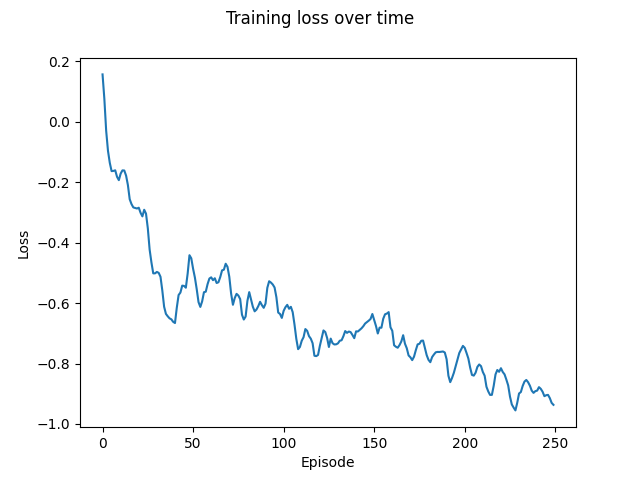
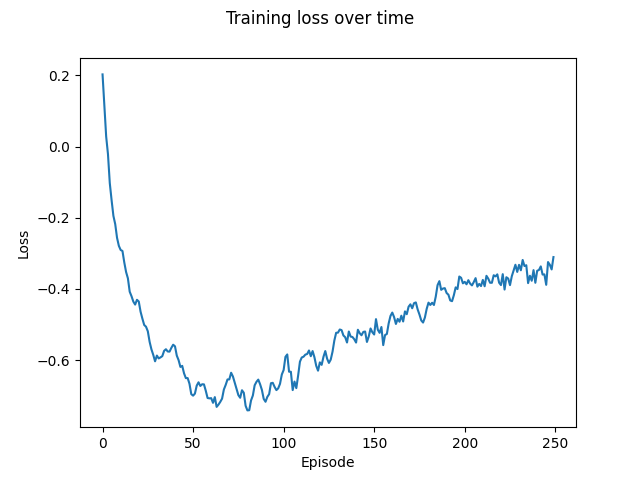
Slowly but surely we are getting there...

diff --git a/sddpg.py b/sddpg.py
@@ -54,7 +54,7 @@ class Critic(nn.Module):
 
 # Safe Deep Deterministic Policy Gradient
 class SDDPG:
-    def __init__(self, n_obs, n_actions, batch_size, gamma, tau, lr, weight_decay, d, d0, x0, device=torch.device("cpu"), n_hidden=300):
+    def __init__(self, n_obs, n_actions, batch_size, gamma, tau, lr, weight_decay, d, d0, x0, num_traj, device=torch.device("cpu"), n_hidden=300):
         self.n_obs = n_obs
         self.n_actions = n_actions
         self.n_hidden = n_hidden
@@ -64,9 +64,13 @@ class SDDPG:
 
         self.d = d
         self.d0 = d0
-        self.aux = 0
         self.x0 = x0
-        self.baseline_action = torch.zeros(n_actions)
+
+        # Initialize all memoizers as tensors of 0's
+        self.aux = torch.zeros(num_traj, batch_size)
+        self.baseline_action =  torch.zeros((num_traj, batch_size,n_actions))
+        self.last_gL = torch.zeros((num_traj, batch_size,n_actions))
+        
 
         self.actor_local = nn.Sequential(
                 nn.Linear(n_obs, n_hidden),
@@ -98,21 +102,51 @@ class SDDPG:
         self.const_critic_target = Critic(n_obs, n_hidden, n_actions).to(device)
         self.const_critic_optim = optim.AdamW(self.const_critic_local.parameters(), lr=lr, weight_decay=weight_decay)
 
-    def select_action(self, state_obs):
+    def select_action(self, state_obs, trajectory, timestep):
         self.actor_local.eval()
         self.const_critic_local.eval()
         self.actor_local.zero_grad()
 
-        action = self.actor_local(state_obs)
+        baseline_action = self.baseline_action[trajectory][timestep]
+        baseline_gradient = self.last_gL[trajectory][timestep]
+        auxillary_constant = self.aux[trajectory][timestep]
+        baseline_norm = torch.norm(baseline_gradient,p=2)**2
 
-        v = self.const_critic_local(state_obs, action)
+        if (baseline_norm == 0):
+            baseline_norm = 1
 
-        gL = torch.autograd.grad(outputs=v, inputs=action)[0].squeeze(0).detach()
-        action = action.squeeze(0).detach()
-        lambda_star = (torch.dot(gL, action-self.baseline_action) - self.aux)/torch.norm(gL,p=2)**2
-        lambda_star = torch.clamp(lambda_star, min=0)
+        with torch.enable_grad():
+            action = self.actor_local(state_obs)
+            action.requires_grad_(True)
+            action_baseline_diff = (action-baseline_action).squeeze(0)
 
-        safe_action = (action - lambda_star*gL).detach()
+            v = self.const_critic_local(state_obs, action)
+            v.requires_grad_(True)  # Explicitly require gradients for value
+
+            # Compute gradient with respect to action
+            next_gL = torch.autograd.grad(
+                outputs=v, 
+                inputs=action, 
+                create_graph=True,  # Allow higher-order gradients
+                retain_graph=True   # Retain the computational graph
+            )[0].squeeze(0)
+
+            lambda_star = (torch.dot(baseline_gradient, action_baseline_diff) - auxillary_constant)/baseline_norm
+            lambda_star = torch.clamp(lambda_star, min=0)
+
+            safe_action = (action - lambda_star*baseline_gradient).detach()
+            if torch.isnan(safe_action).any():
+                print(f"trajectory: {trajectory}\ntimestep:{timestep}")
+                print(f"safe_action: {safe_action}")
+                print(f"lambda_star: {lambda_star}")
+                print(f"action_baseline_diff: {action_baseline_diff}")
+                print(f"baseline_gradient: {baseline_gradient}")
+                print(f"auxillary_constant: {auxillary_constant}")
+                print(f"baseline_norm: {baseline_norm}\n\n\n")
+                exit(0)
+
+        # calculate new baseline gradient eagerly for next iteration
+        self.last_gL[trajectory][timestep] = next_gL.detach()
 
 
         self.actor_local.train()
@@ -120,7 +154,7 @@ class SDDPG:
         return safe_action.squeeze(0)
     
     def update_critics(self, trajectories):
-        for t in trajectories:
+        for traj_num, t in enumerate(trajectories):
             states = t[0]
             actions = t[1]
             rewards = t[2] 
@@ -128,7 +162,7 @@ class SDDPG:
 
             next_actions = self.actor_target(next_states)
 
-            target_safe_q_values = self.d(states) + self.aux + self.gamma * self.const_critic_target(next_states, next_actions)
+            target_safe_q_values = self.d(states) + self.aux[traj_num] + self.gamma * self.const_critic_target(next_states, next_actions)
             target_q_values = rewards + self.gamma * self.critic_target(next_states, next_actions)
 
             safe_q_values = self.const_critic_local(states, actions)
@@ -137,6 +171,7 @@ class SDDPG:
             critic_loss = self.critic_local.loss_fn(q_values, target_q_values)
             const_critic_loss = self.const_critic_local.loss_fn(safe_q_values, target_safe_q_values)
 
+            # need to consider only until end of trajectory somehow for loss + reward
             loss = critic_loss + const_critic_loss
     
             loss.backward()
@@ -160,7 +195,6 @@ class SDDPG:
         predicted_actions_per_trajectory = []
         for t in trajectories:
             states = t[0]
-
             # Compute actor loss
             self.actor_optim.zero_grad()
             predicted_actions = self.actor_local(states)
@@ -182,15 +216,16 @@ class SDDPG:
         return actor_losses, predicted_actions_per_trajectory
 
 
-    def set_auxillary(self, x0):
+    def set_auxillary(self, x0, N, T):
         self.x0 = x0
+        for traj_num in range(N):
+            for timestep in range(T):
+                raw_actions = self.select_action(x0, traj_num, timestep).unsqueeze(0)
 
-        raw_actions = self.select_action(x0).unsqueeze(0)
-
-        self.const_critic_local.eval()
-        with torch.no_grad():
-            self.aux = (1-self.gamma)*(self.d0-self.const_critic_local(x0, raw_actions))
-        self.const_critic_local.train()
+                self.const_critic_local.eval()
+                with torch.no_grad():
+                    self.aux[traj_num][timestep] = ((1-self.gamma)*(self.d0-self.const_critic_local(x0, raw_actions)))
+                self.const_critic_local.train()
 
     def soft_update(self, local_model, target_model):
         for target_param, local_param in zip(target_model.parameters(), local_model.parameters()):
@@ -216,7 +251,7 @@ def generate_trajectories(policy_agent, env, N, T, episode, eps_start, eps_end, 
     seed = torch.randint(1,1000, (1,1))
     env.action_space.seed(seed.item())
 
-    for _ in range(N):
+    for traj_num in range(N):
         states = []
         actions = []
         rewards = []
@@ -226,13 +261,14 @@ def generate_trajectories(policy_agent, env, N, T, episode, eps_start, eps_end, 
         state, _ = env.reset()
         state = torch.tensor(state, dtype=torch.float32, device=device).unsqueeze(0)
 
-        for _ in range(T):
+        for timestep in range(T):
             eps = eps_end + (eps_start - eps_end) * math.exp(-1. * episode / eps_decay)
 
             if random.random()<eps:
                 action = torch.Tensor(env.action_space.sample())
             else:
-                action = policy_agent.select_action(state)
+                action = policy_agent.select_action(state, traj_num, timestep)
+
             
             observation, reward, terminated, truncated, _ = env.step(action.numpy(force=True))
             reward = torch.tensor([reward], device=device, dtype=torch.float32)
@@ -243,20 +279,38 @@ def generate_trajectories(policy_agent, env, N, T, episode, eps_start, eps_end, 
             states.append(state)
             actions.append(action)
             rewards.append(reward)
-            next_states.append(next_state if next_state is not None else torch.zeros_like(state))
+            next_states.append(next_state if next_state is not None else state)
             dones.append(torch.tensor([done], dtype=torch.float32, device=device))
 
             state = next_state
 
             if done:
+                # Pad trajectory tensors to ensure consistent length
+                # Use the last valid state for padding
+                last_valid_state = states[-1] if states else torch.zeros_like(state)
+                last_valid_action = actions[-1] if actions else torch.zeros_like(action)
+                last_valid_reward = rewards[-1] if rewards else torch.zeros_like(reward)
+                while len(states) < T:
+                    states.append(last_valid_state)
+                    actions.append(last_valid_action)
+                    rewards.append(last_valid_reward)
+                    next_states.append(last_valid_state)
+                    dones.append(torch.tensor([True], dtype=torch.float32, device=device))
+                    
+                    timestep += 1
                 break
 
+        # print(f"States: {states}")
+        # print(f"Actions: {actions}")
+        # print(f"rewards: {rewards}")
+        # print(f"dones: {dones}")
         # Convert collected data into tensors
         states = torch.cat(states, dim=0)
         actions = torch.stack(actions, dim=0)
         rewards = torch.stack(rewards, dim=0)
         next_states = torch.cat(next_states, dim=0)
         dones = torch.stack(dones, dim=0)
+
         trajectories.append([states, actions, rewards, next_states, dones])
     
     return trajectories
@@ -267,7 +321,7 @@ def train(episode, eps_start, eps_end, eps_decay, last_policy, env, N, T, device
     x0 = torch.zeros_like(state)
     x0 = x0.copy_(state)
     pi_theta_k = last_policy
-    pi_theta_k.set_auxillary(x0)
+    pi_theta_k.set_auxillary(x0, N, T)
 
     # Step 0: generate N trajectories of length T using the previous policy
     trajectories = generate_trajectories(pi_theta_k, env, N, T, episode, eps_start, eps_end, eps_decay, device)
@@ -276,8 +330,8 @@ def train(episode, eps_start, eps_end, eps_decay, last_policy, env, N, T, device
     pi_theta_k.update_critics(trajectories)
 
     # Step 2: Update Policy Parameters
-    actor_losses, prediced_actions = pi_theta_k.update_agent(trajectories)
+    actor_losses, predicted_actions_per_traj = pi_theta_k.update_agent(trajectories)
 
     # Step 3: Update baseline
-    pi_theta_k.baseline = prediced_actions
+    pi_theta_k.baseline_action = predicted_actions_per_traj
     return pi_theta_k, actor_losses

diff --git a/train-and-eval.py b/train-and-eval.py
@@ -26,13 +26,14 @@ EPS_DECAY = 100
 WEIGHT_DECAY = 0.005
 TAU = 1e-3
 LR = 1e-4
+NUM_TRAJ = 5
 
 env = gym.make("HalfCheetah-v5", render_mode="rgb_array", max_episode_steps=100)
 
 n_actions = env.action_space.shape[0] 
-state, _ = env.reset()
+x0, _ = env.reset()
 
-n_obs = len(state)
+n_obs = len(x0)
 
 def d(x: torch.tensor):
     return (torch.linalg.vector_norm(x[:,8:10],dim=1)>=1).unsqueeze(-1)
@@ -40,7 +41,7 @@ def d(x: torch.tensor):
 d0 = 50
 
 # Training loop
-agent = sddpg.SDDPG(n_obs, n_actions, BATCH_SIZE, GAMMA, TAU, LR, WEIGHT_DECAY,d, d0, state)
+agent = sddpg.SDDPG(n_obs, n_actions, BATCH_SIZE, GAMMA, TAU, LR, WEIGHT_DECAY,d, d0, x0, NUM_TRAJ)
 
 memory = sddpg.ReplayMemory(MEMORY_SIZE)
 losses = []
@@ -49,7 +50,8 @@ for i_episode in (pbar := tqdm(range(N_EPISODES))):
     print(f"Current Episode: {i_episode}")
     if i_episode == 0:
         last_policy = agent
-    last_policy, actor_losses = sddpg.train(i_episode, EPS_START, EPS_END, EPS_DECAY, last_policy, env, 5, BATCH_SIZE)
+    last_policy, actor_losses = sddpg.train(i_episode, EPS_START, EPS_END, EPS_DECAY, last_policy, env, NUM_TRAJ, BATCH_SIZE)
+    # need to consider only until done = True
     avg_losses = np.mean([np.mean(losses) for losses in actor_losses])
     print(f"Average Actor Loss: {avg_losses}")
     losses.append(avg_losses)
